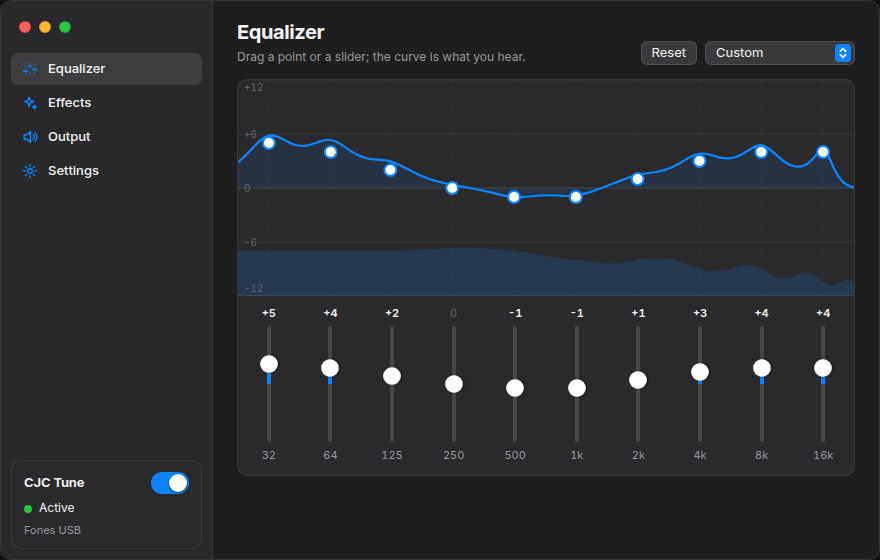
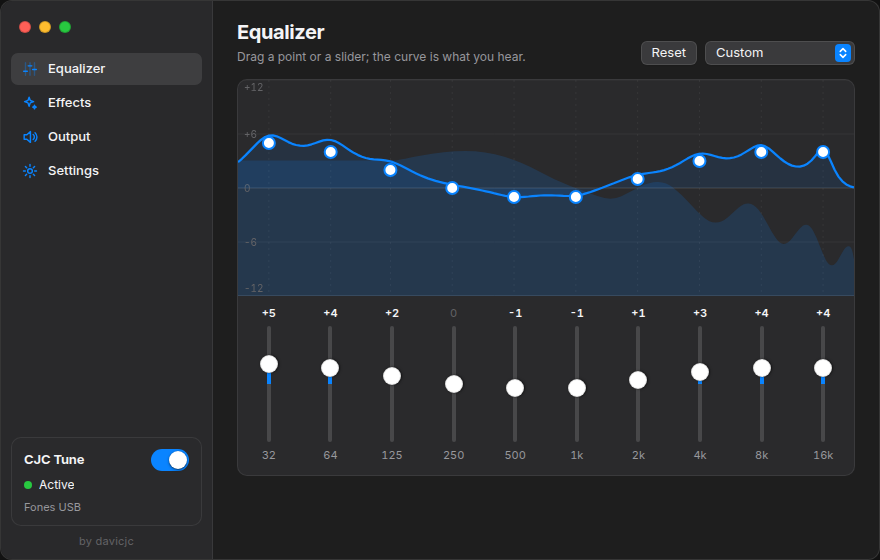
Assinatura by davicjc na barra lateral, no Sobre e no README

Changed region(s): [[0.2455, 0.2732, 0.9818, 0.5161], [0.0307, 0.7893, 0.1534, 0.9714], [0.1534, 0.7893, 0.2148, 0.8804]]

diff --git a/src/i18n.js b/src/i18n.js
@@ -132,7 +132,7 @@ const en = {
     "set.imported": "Configuration imported.",
     "set.about": "About",
     "set.version": "Version {version}",
-    "set.by": "Made by Davi Castro",
+    "set.by": "by davicjc (Davi Castro)",
     "set.basedOn": "Based on FXSound for Linux (Raul909, MIT license).",
     "set.loading": "Loading…",
 
@@ -265,7 +265,7 @@ const pt = {
     "set.imported": "Configuração importada.",
     "set.about": "Sobre",
     "set.version": "Versão {version}",
-    "set.by": "Feito por Davi Castro",
+    "set.by": "by davicjc (Davi Castro)",
     "set.basedOn": "Baseado no FXSound for Linux (Raul909, licença MIT).",
     "set.loading": "Carregando…",
 
@@ -398,7 +398,7 @@ const es = {
     "set.imported": "Configuración importada.",
     "set.about": "Acerca de",
     "set.version": "Versión {version}",
-    "set.by": "Hecho por Davi Castro",
+    "set.by": "by davicjc (Davi Castro)",
     "set.basedOn": "Basado en FXSound for Linux (Raul909, licencia MIT).",
     "set.loading": "Cargando…",
 
@@ -531,7 +531,7 @@ const zh = {
     "set.imported": "配置已导入。",
     "set.about": "关于",
     "set.version": "版本 {version}",
-    "set.by": "作者 Davi Castro",
+    "set.by": "by davicjc (Davi Castro)",
     "set.basedOn": "基于 FXSound for Linux（Raul909，MIT 许可证）。",
     "set.loading": "正在加载…",
 

diff --git a/src/styles.css b/src/styles.css
@@ -310,6 +310,14 @@ button {
 .dot--starting { background: var(--warn); }
 .dot--error { background: var(--bad); }
 
+.signature {
+  margin-top: 8px;
+  text-align: center;
+  font-size: 11px;
+  letter-spacing: 0.02em;
+  color: var(--text-3);
+}
+
 /* ── Main ───────────────────────────────────────────────── */
 
 .main {

diff --git a/src/components/Sidebar.jsx b/src/components/Sidebar.jsx
@@ -91,6 +91,7 @@ export default function Sidebar({ page, onPage, powered, onPower, status }) {
                 </div>
                 {status.detail && <div className="power__detail" title={status.detail}>{status.detail}</div>}
             </div>
+            <div className="signature" data-tauri-drag-region>by davicjc</div>
         </aside>
     );
 }

diff --git a/README.en.md b/README.en.md
@@ -4,7 +4,7 @@
 
 <h1 align="center">CJC Tune</h1>
 
-<p align="center">A system-wide equalizer and sound effects for Linux, made to feel like a Mac app.</p>
+<p align="center">A system-wide equalizer and sound effects for Linux, made to feel like a Mac app.<br><sub>by <a href="https://davicjc.com">davicjc</a></sub></p>
 
 <p align="center">
   <img alt="Linux" src="https://img.shields.io/badge/Linux-0d1117?style=for-the-badge&logo=linux&logoColor=white">
@@ -113,4 +113,4 @@ Raul909 and contributors, under the MIT license. The audio processing and routin
 there; the interface, the code layout, the service restart and the migration are this
 project's. The original copyright notice is kept in [LICENSE](LICENSE).
 
-Made by [Davi Castro](https://davicjc.com).
+**by [davicjc](https://davicjc.com)** · Davi Castro

diff --git a/README.md b/README.md
@@ -4,7 +4,7 @@
 
 <h1 align="center">CJC Tune</h1>
 
-<p align="center">Equalizador e efeitos de som para o Linux inteiro, com cara de app de Mac.</p>
+<p align="center">Equalizador e efeitos de som para o Linux inteiro, com cara de app de Mac.<br><sub>by <a href="https://davicjc.com">davicjc</a></sub></p>
 
 <p align="center">
   <img alt="Linux" src="https://img.shields.io/badge/Linux-0d1117?style=for-the-badge&logo=linux&logoColor=white">
@@ -113,4 +113,4 @@ Raul909 e colaboradores, sob licença MIT. O processamento e o roteamento de áu
 interface, a organização do código, o reinício do serviço e a migração são deste projeto. O
 aviso de copyright original está mantido no [LICENSE](LICENSE).
 
-Feito por [Davi Castro](https://davicjc.com).
+**by [davicjc](https://davicjc.com)** · Davi Castro
